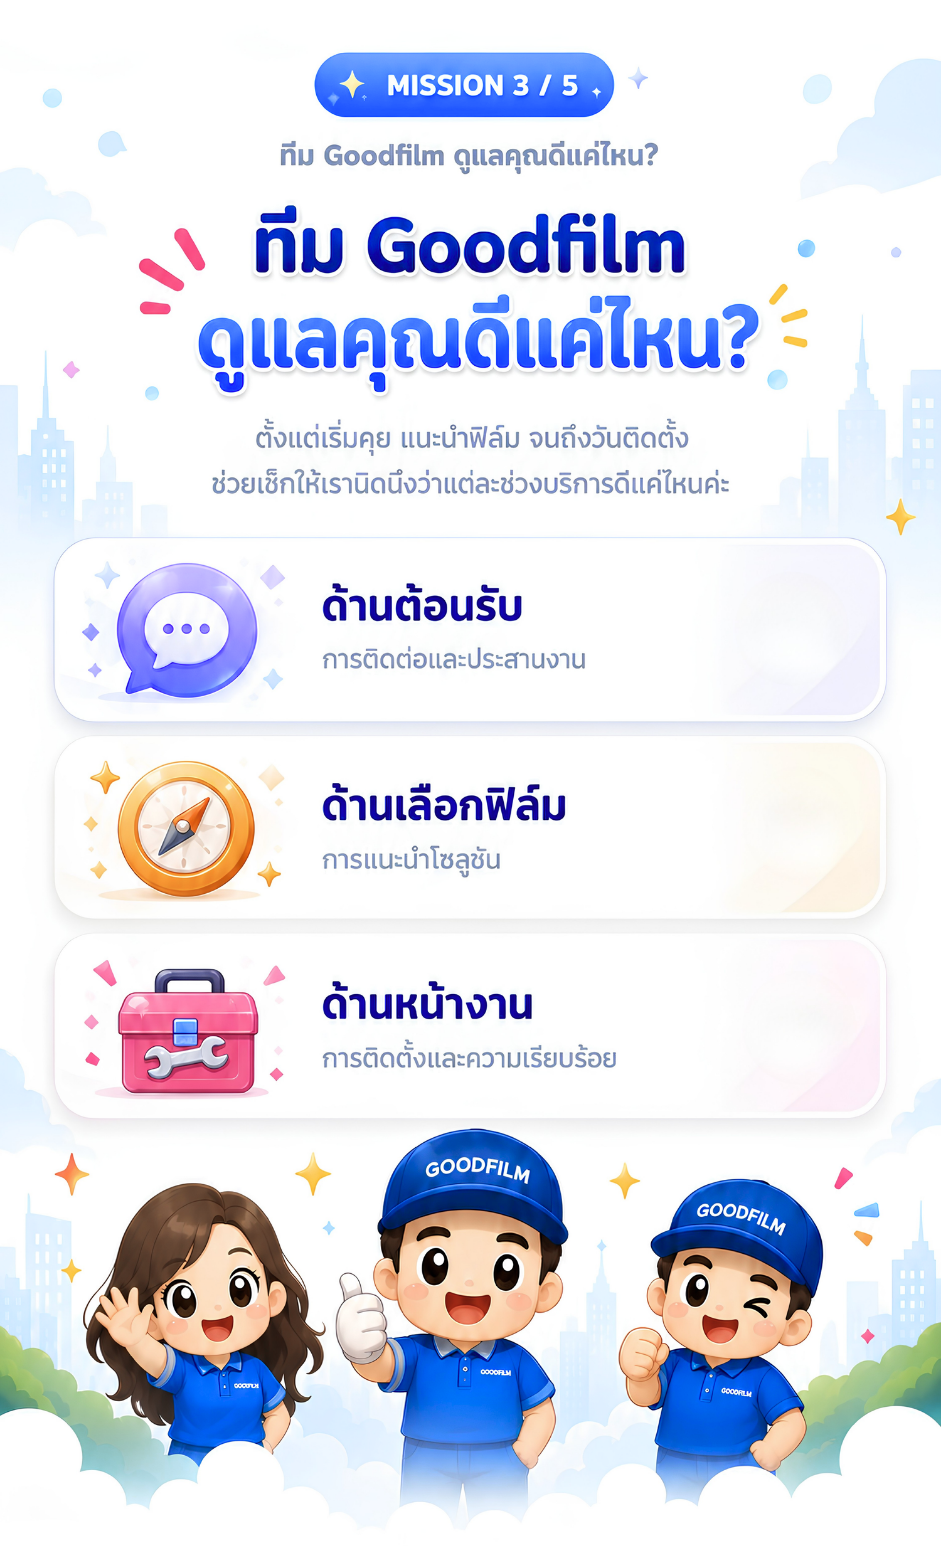
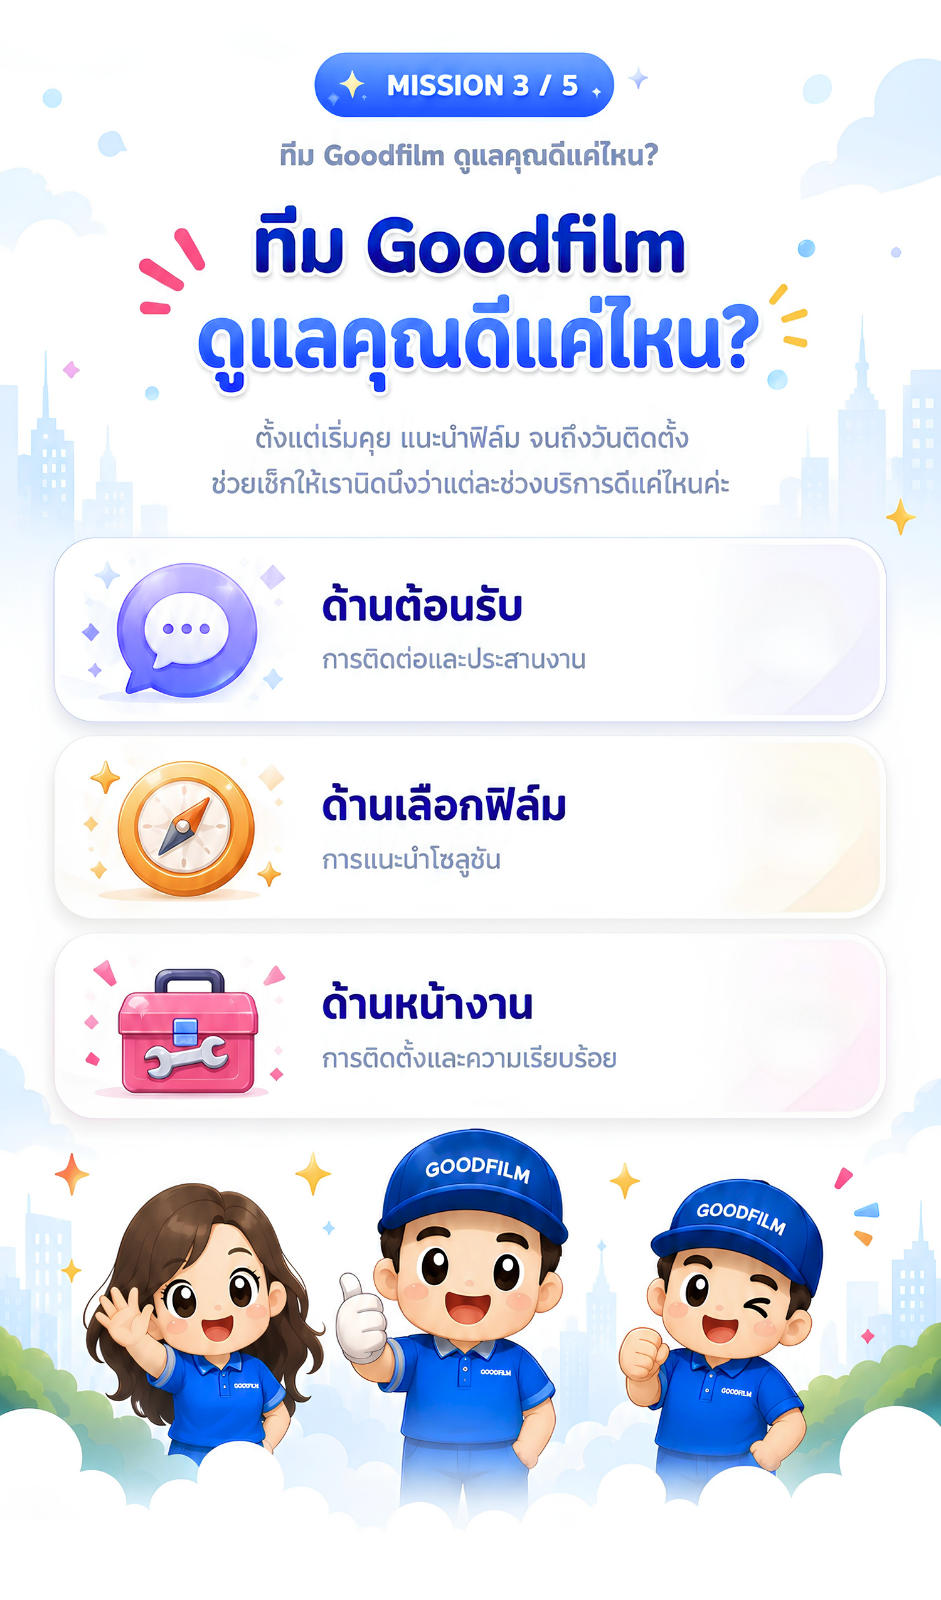
Add navigation arrows to Kanban cards

diff --git a/admin/app.js b/admin/app.js
@@ -662,23 +662,38 @@ function renderKanbanBoard() {
         card.setAttribute('ondragstart', `dragStart(event, '${c.id}')`);
         card.setAttribute('onclick', `openCustomerDrawer('${c.id}')`);
 
+        let moveButtons = `<div style="display: flex; gap: 4px; align-items: center;">`;
+        const laneOrder = ['Unsent', 'Sent', 'Completed', 'Action Required'];
+        const currentIndex = laneOrder.indexOf(laneKey);
+        if (currentIndex > 0) {
+            moveButtons += `<button onclick="moveKanbanCard('${c.id}', '${laneOrder[currentIndex - 1]}', event)" style="background:transparent; border:none; padding:4px; cursor:pointer; color:var(--text-muted); display:flex; align-items:center; border-radius:4px;" onmouseover="this.style.background='#f1f5f9'" onmouseout="this.style.background='transparent'"><i data-lucide="chevron-left" style="width:16px; height:16px;"></i></button>`;
+        }
+        if (currentIndex < 3) {
+            moveButtons += `<button onclick="moveKanbanCard('${c.id}', '${laneOrder[currentIndex + 1]}', event)" style="background:transparent; border:none; padding:4px; cursor:pointer; color:var(--text-muted); display:flex; align-items:center; border-radius:4px;" onmouseover="this.style.background='#f1f5f9'" onmouseout="this.style.background='transparent'"><i data-lucide="chevron-right" style="width:16px; height:16px;"></i></button>`;
+        }
+        moveButtons += `</div>`;
+
         let footerHtml = '';
         if (c.feedback) {
             const overall = c.feedback.overallMood || '😐';
             const avg = (((c.feedback.ratings.admin || 0) + (c.feedback.ratings.sales || 0) + (c.feedback.ratings.tech || 0)) / 3).toFixed(1);
             footerHtml = `
-                <div class="kanban-card-footer">
-                    <span style="font-size: 1.2rem;">${overall}</span>
-                    <span class="kanban-card-rating">
-                        <i data-lucide="star" style="width:12px; height:12px; fill:var(--accent); color:var(--accent);"></i>
-                        <span>${avg} / 5</span>
-                    </span>
+                <div class="kanban-card-footer" style="display:flex; justify-content:space-between; align-items:center;">
+                    <div style="display:flex; gap:8px; align-items:center;">
+                        <span style="font-size: 1.2rem;">${overall}</span>
+                        <span class="kanban-card-rating">
+                            <i data-lucide="star" style="width:12px; height:12px; fill:var(--accent); color:var(--accent);"></i>
+                            <span>${avg} / 5</span>
+                        </span>
+                    </div>
+                    ${moveButtons}
                 </div>
             `;
         } else {
             footerHtml = `
-                <div class="kanban-card-footer" style="font-size: 0.65rem; color: var(--text-muted);">
-                    <span>รอดำเนินการ</span>
+                <div class="kanban-card-footer" style="display:flex; justify-content:space-between; align-items:center;">
+                    <span style="font-size: 0.65rem; color: var(--text-muted);">รอดำเนินการ</span>
+                    ${moveButtons}
                 </div>
             `;
         }
@@ -704,20 +719,12 @@ function renderKanbanBoard() {
     lucide.createIcons();
 }
 
-// Drag & Drop Kanban Handlers
-function dragStart(e, customerId) {
-    e.dataTransfer.setData('text/plain', customerId);
+function moveKanbanCard(customerId, targetStatus, e) {
+    if (e) e.stopPropagation();
+    updateCustomerStatus(customerId, targetStatus);
 }
 
-function allowDrop(e) {
-    e.preventDefault();
-}
-
-function handleDrop(e, targetStatus) {
-    e.preventDefault();
-    const customerId = e.dataTransfer.getData('text/plain');
-    
-    // Find customer and update status
+function updateCustomerStatus(customerId, targetStatus) {
     const customer = state.customers.find(c => c.id === customerId);
     if (!customer) return;
 
@@ -730,6 +737,21 @@ function handleDrop(e, targetStatus) {
     renderKanbanBoard();
     renderCustomerTable();
     renderKPIs();
+}
+
+// Drag & Drop Kanban Handlers
+function dragStart(e, customerId) {
+    e.dataTransfer.setData('text/plain', customerId);
+}
+
+function allowDrop(e) {
+    e.preventDefault();
+}
+
+function handleDrop(e, targetStatus) {
+    e.preventDefault();
+    const customerId = e.dataTransfer.getData('text/plain');
+    updateCustomerStatus(customerId, targetStatus);
 }
 
 // Quick status change helper (when sending LINE)